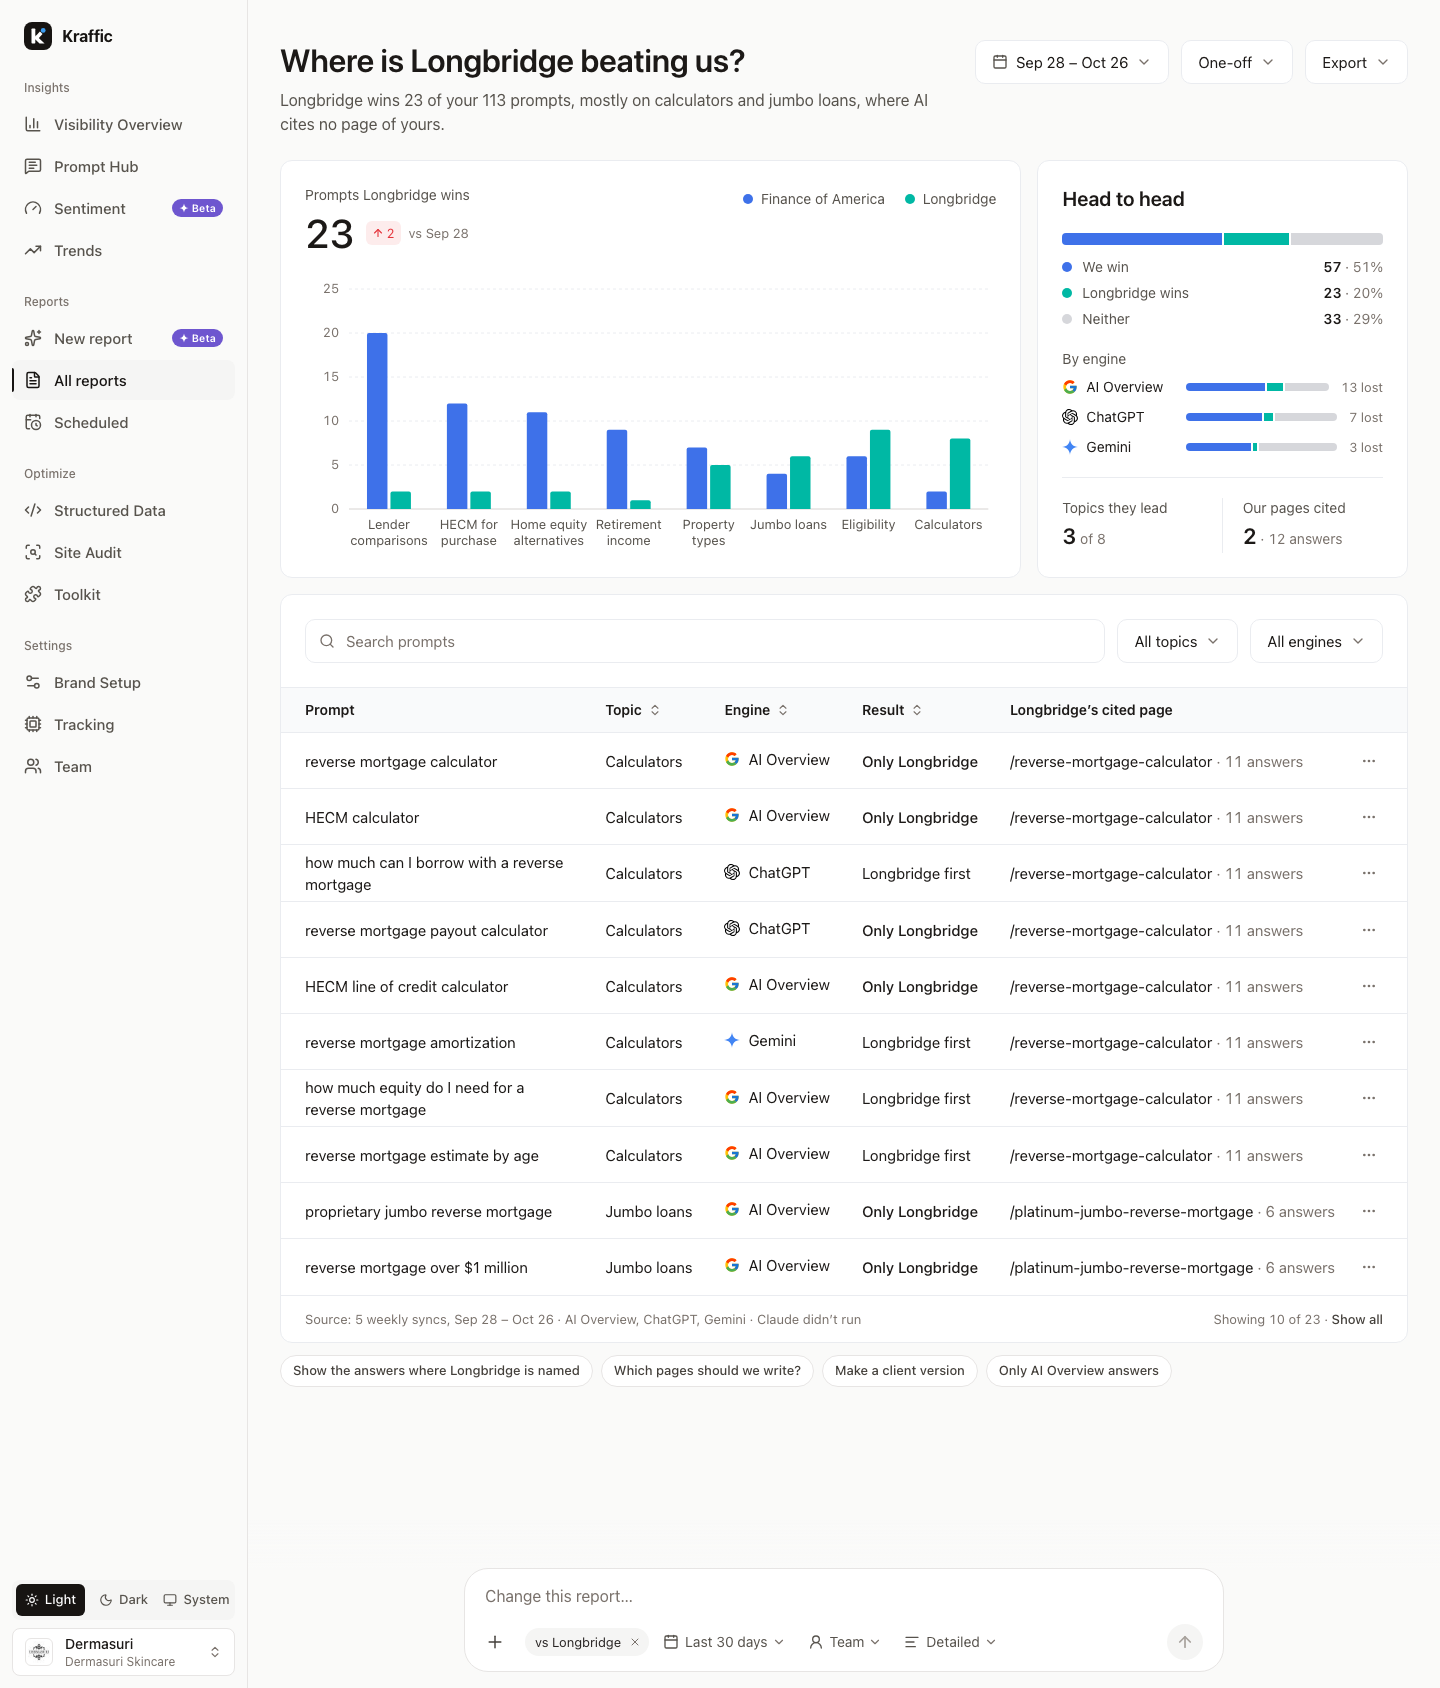
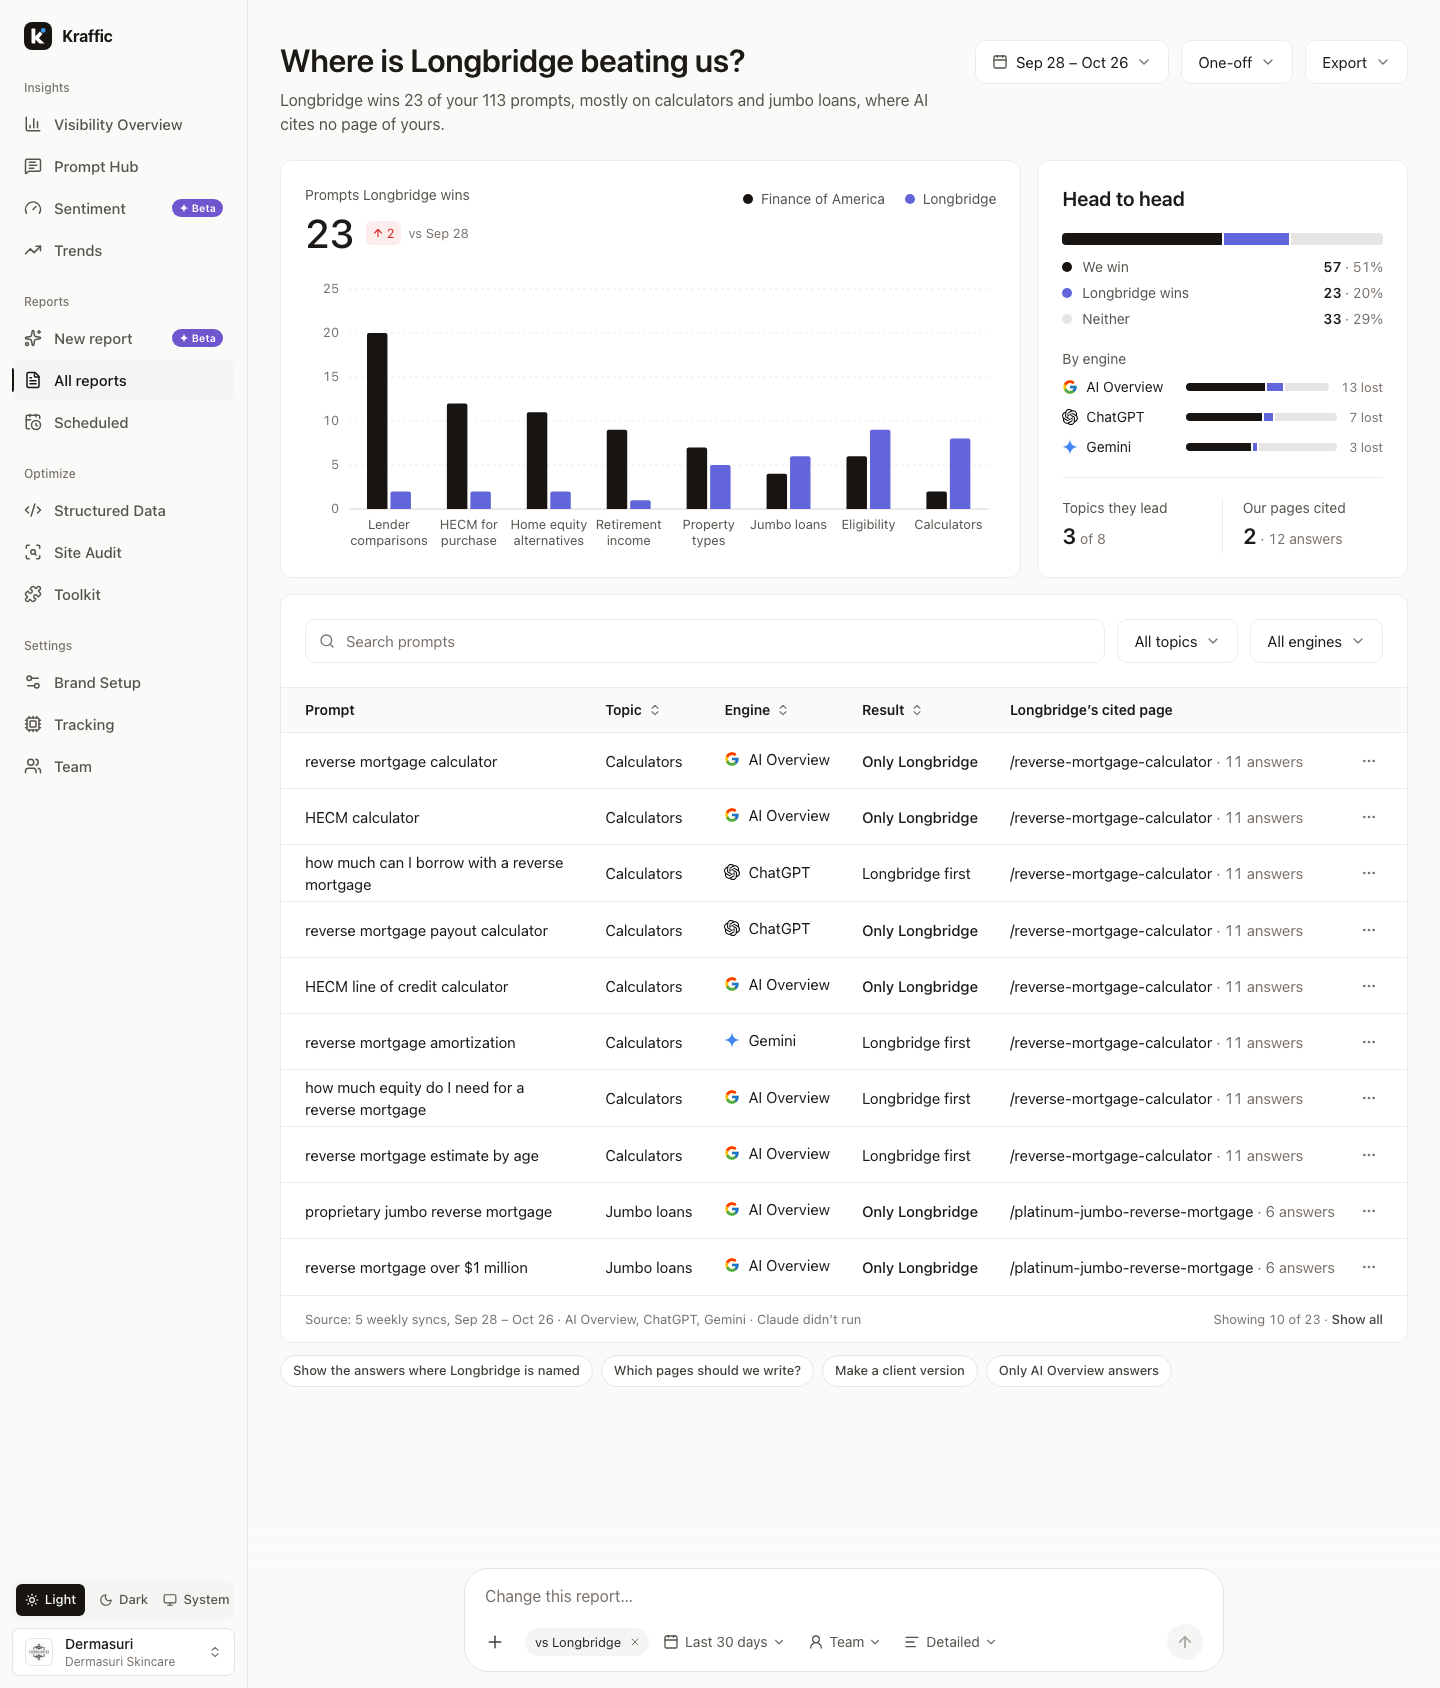
Reports frame: the dashboard's own chart colours, nothing invented. Us = the brand's chart colour (--line-you, ink), the competitor = the dashboard's first competitor line (--line-1), the tint and the neutral = the graphite data steps (--data-c2, --data-c4), the red chip = --negative; the report tok

diff --git a/src/index.css b/src/index.css
@@ -469,24 +469,23 @@ html[data-theme="dark"] * { --tw-shadow-color: transparent; }
   .thumb-live:is(:hover, :focus-visible) [data-a="pop"] { animation: thumb-pop 520ms cubic-bezier(.34,1.56,.64,1) calc(var(--i) * 80ms + 120ms) both; }
 }
 
-/* Reports (the frame): one matched family (equal lightness and saturation): the primary and its tint (us), the rival and
-   its tint, a neutral (nobody); the card hairline, the table header fill, the dark tooltip, the green / red change chips.
-   Every blue and teal in Reports routes through these (the composer's send button too). Light here, dark below. */
+/* Reports (the frame): the dashboard's own chart colours, nothing invented. Us = the brand's chart colour (--line-you,
+   ink); the competitor = the dashboard's first competitor line (--line-1); the tint and the neutral = the graphite data
+   steps (--data-c2, --data-c4). They flip with the theme where they're defined. The card hairline, the table header
+   fill, the dark tooltip and the green / red change chips are the frame's own (light here, dark below). */
 :root {
-  --rep-primary: #3E71E9; --rep-primary-tint: #C4D8FF; --rep-rival: #00B8A4; --rep-rival-tint: #BEEDE4; --rep-neutral: #D6D7DB;
+  --rep-primary: var(--line-you); --rep-primary-tint: var(--data-c2); --rep-rival: var(--line-1); --rep-neutral: var(--data-c4);
   --rep-line: #EAECF0; --rep-head: #F9FAFB; --rep-tip: #101828; --rep-tip-line: #101828; --rep-tip-fg: #FFFFFF; --rep-tip-meta: #98A2B3;
-  --rep-up-fg: #12A150; --rep-up-bg: #E6F6EC; --rep-down-fg: #E5363D; --rep-down-bg: #FDECEC;
+  --rep-up-fg: #12A150; --rep-up-bg: #E6F6EC; --rep-down-fg: var(--negative); --rep-down-bg: #FDECEC;
 }
 html[data-theme="dark"] {
-  --rep-primary: #588CFF; --rep-primary-tint: #294072; --rep-rival: #25CBB7; --rep-rival-tint: #19524A; --rep-neutral: #3C3D40;
   --rep-line: #232323; --rep-head: #161616; --rep-tip: #1B1B1B; --rep-tip-line: #333333; --rep-tip-fg: #ECECEC; --rep-tip-meta: #8E8E8E;
-  --rep-up-fg: #34D27B; --rep-up-bg: rgba(52,210,123,.14); --rep-down-fg: #FF5A5F; --rep-down-bg: rgba(255,90,95,.14);
+  --rep-up-fg: #34D27B; --rep-up-bg: rgba(52,210,123,.14); --rep-down-bg: rgba(255,90,95,.14);
 }
 @media (prefers-color-scheme: dark) {
   :root:not([data-theme="light"]) {
-    --rep-primary: #588CFF; --rep-primary-tint: #294072; --rep-rival: #25CBB7; --rep-rival-tint: #19524A; --rep-neutral: #3C3D40;
     --rep-line: #232323; --rep-head: #161616; --rep-tip: #1B1B1B; --rep-tip-line: #333333; --rep-tip-fg: #ECECEC; --rep-tip-meta: #8E8E8E;
-    --rep-up-fg: #34D27B; --rep-up-bg: rgba(52,210,123,.14); --rep-down-fg: #FF5A5F; --rep-down-bg: rgba(255,90,95,.14);
+    --rep-up-fg: #34D27B; --rep-up-bg: rgba(52,210,123,.14); --rep-down-bg: rgba(255,90,95,.14);
   }
 }
 @keyframes rep-tip { from { opacity: 0; } to { opacity: 1; } }
@@ -503,7 +502,7 @@ html[data-theme="dark"] { --bubble: var(--color-raised); }
 @media (prefers-reduced-motion: reduce) { .thread-motion, .thread-motion * { animation-duration: 1ms !important; animation-delay: 0ms !important; } }
 /* The Reports composer's send button: ChatGPT's blue, the same in light and dark. The app's one accent colour, a
    deliberate exception to the no-accent rule, used for this button only. */
-:root { --send: var(--rep-primary); --send-hover: color-mix(in srgb, var(--rep-primary) 88%, #000); --send-active: color-mix(in srgb, var(--rep-primary) 78%, #000); --send-fg: #FFFFFF; } /* the report family's primary; --send-fg: the icon (not text-white, which dark mode remaps) */
+:root { --send: #3C65C0; --send-hover: #3558AA; --send-active: #2F4E97; --send-fg: #FFFFFF; } /* --send-fg: the icon (not text-white, which dark mode remaps) */
 
 /* Reports thread: a thin overlay-style scrollbar, hidden at rest. It shows while scrolling or hovering the scroll area
    (data-sb="on", set by the page) and fades out ~800ms after. Chrome / Safari: the thumb takes the element's border

diff --git a/src/pages/reports/frame.jsx b/src/pages/reports/frame.jsx
@@ -11,8 +11,8 @@ import { menuItem } from './parts'
 // the source line and "Showing N of M" in its footer. Flat cards on a 1px hairline, 12px radius, 24px padding, 16px
 // apart, no shadow. Weights 400 / 600 (the main value 500), sentence case, tabular numbers. One matched family: the
 // primary and its tint (us), the rival and its tint, a neutral (nobody); green / red only in the change chips and
-// losing values. No motion on load; the tooltip fades in, rows tint on hover, dropdowns open.
-const TONE = { primary: 'var(--rep-primary)', tint: 'var(--rep-primary-tint)', rival: 'var(--rep-rival)', rivalTint: 'var(--rep-rival-tint)', neutral: 'var(--rep-neutral)', bad: 'var(--rep-down-fg)', good: 'var(--rep-up-fg)' }
+// losing values. Nothing below full opacity at rest: the 35% dim applies only to the other groups while one is hovered. No motion on load; the tooltip fades in, rows tint on hover, dropdowns open.
+const TONE = { primary: 'var(--rep-primary)', tint: 'var(--rep-primary-tint)', rival: 'var(--rep-rival)', neutral: 'var(--rep-neutral)', bad: 'var(--rep-down-fg)', good: 'var(--rep-up-fg)' }
 const CARD = 'rounded-xl border border-[var(--rep-line)] bg-surface'
 const OUTLINE = 'inline-flex h-11 items-center gap-2 whitespace-nowrap rounded-[10px] border border-[var(--rep-line)] bg-surface px-4 text-[15px] leading-5 text-stone-900 outline-none transition-colors duration-150 hover:bg-tint focus-visible:ring-2 focus-visible:ring-focus'
 const LABEL = 'text-[14px] leading-5 text-stone-600'

diff --git a/src/pages/reports/library.jsx b/src/pages/reports/library.jsx
@@ -86,7 +86,7 @@ export function HeadToHead({ v }) {
   const spans = segs.map((s) => { const from = at; at += s.n; return { ...s, mid: ((from + s.n / 2) / v.total) * 100 } })
   const tip = hi != null ? spans[hi] : null
   const ticks = [0, 0.25, 0.5, 0.75, 1].map((f) => ({ f, n: Math.round(v.total * f) }))
-  const fg = (s) => (s.tone === 'none' ? 'var(--color-stone-600)' : s.tone === 'both' ? 'var(--color-stone-900)' : s.tone === 'you' ? 'var(--on-ink)' : '#FFFFFF')
+  const fg = (s) => (s.tone === 'none' ? 'var(--color-stone-600)' : s.tone === 'both' ? 'var(--color-stone-900)' : s.tone === 'you' ? 'var(--on-ink)' : 'var(--pie-on-c1)')
   return (
     <figure className="w-full">
       <figcaption className={LABEL}>Every tracked prompt, once: who AI names on it</figcaption>

diff --git a/src/pages/reports/blocks.jsx b/src/pages/reports/blocks.jsx
@@ -840,7 +840,7 @@ function Quadrant({ v }) {
           {block('onlyYou', v.onlyYou, 'Only you', null, { background: INK }, 'var(--color-on-ink)')}
         </div>
         <div className="flex min-w-0 flex-col gap-1.5" style={{ flexGrow: Math.max(not, named * 0.3), flexBasis: 0 }}>
-          {block('onlyThem', v.onlyThem, `Only ${v.them}`, null, { background: v.color }, '#FFFFFF')}
+          {block('onlyThem', v.onlyThem, `Only ${v.them}`, null, { background: v.color }, 'var(--pie-on-c1)')}
           {block('neither', v.neither, 'Neither', null, { boxShadow: 'inset 0 0 0 1px var(--color-stone-300)', backgroundImage: 'none' }, 'var(--color-stone-600)')}
         </div>
       </div>
